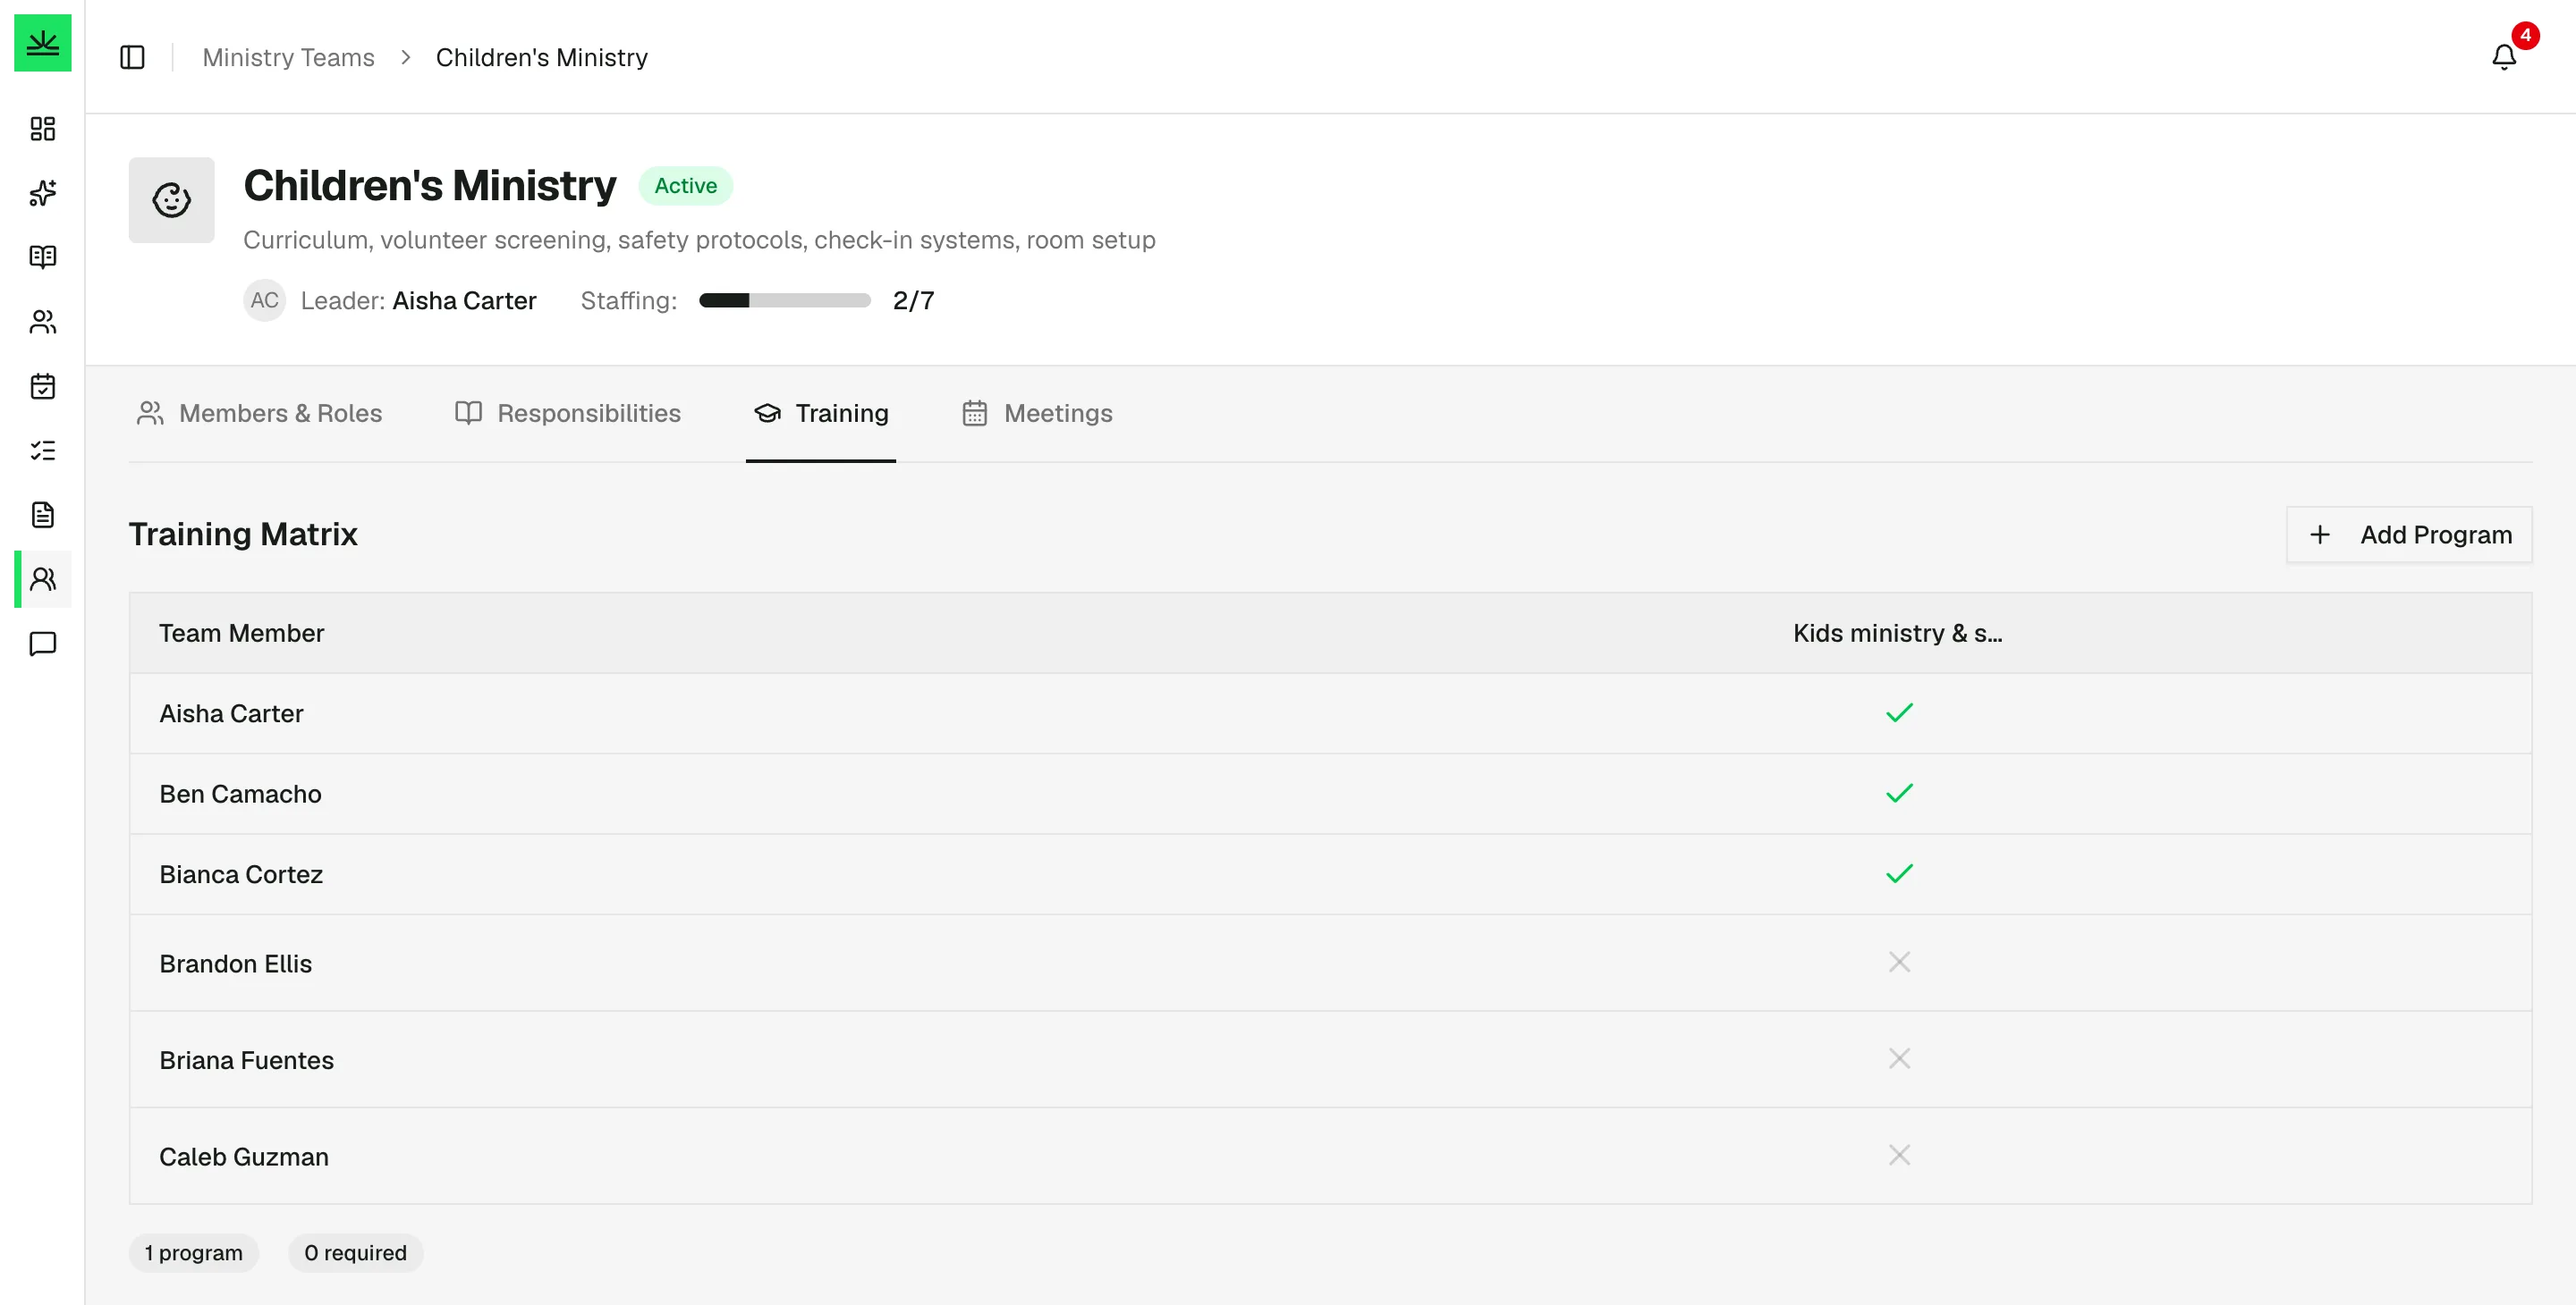
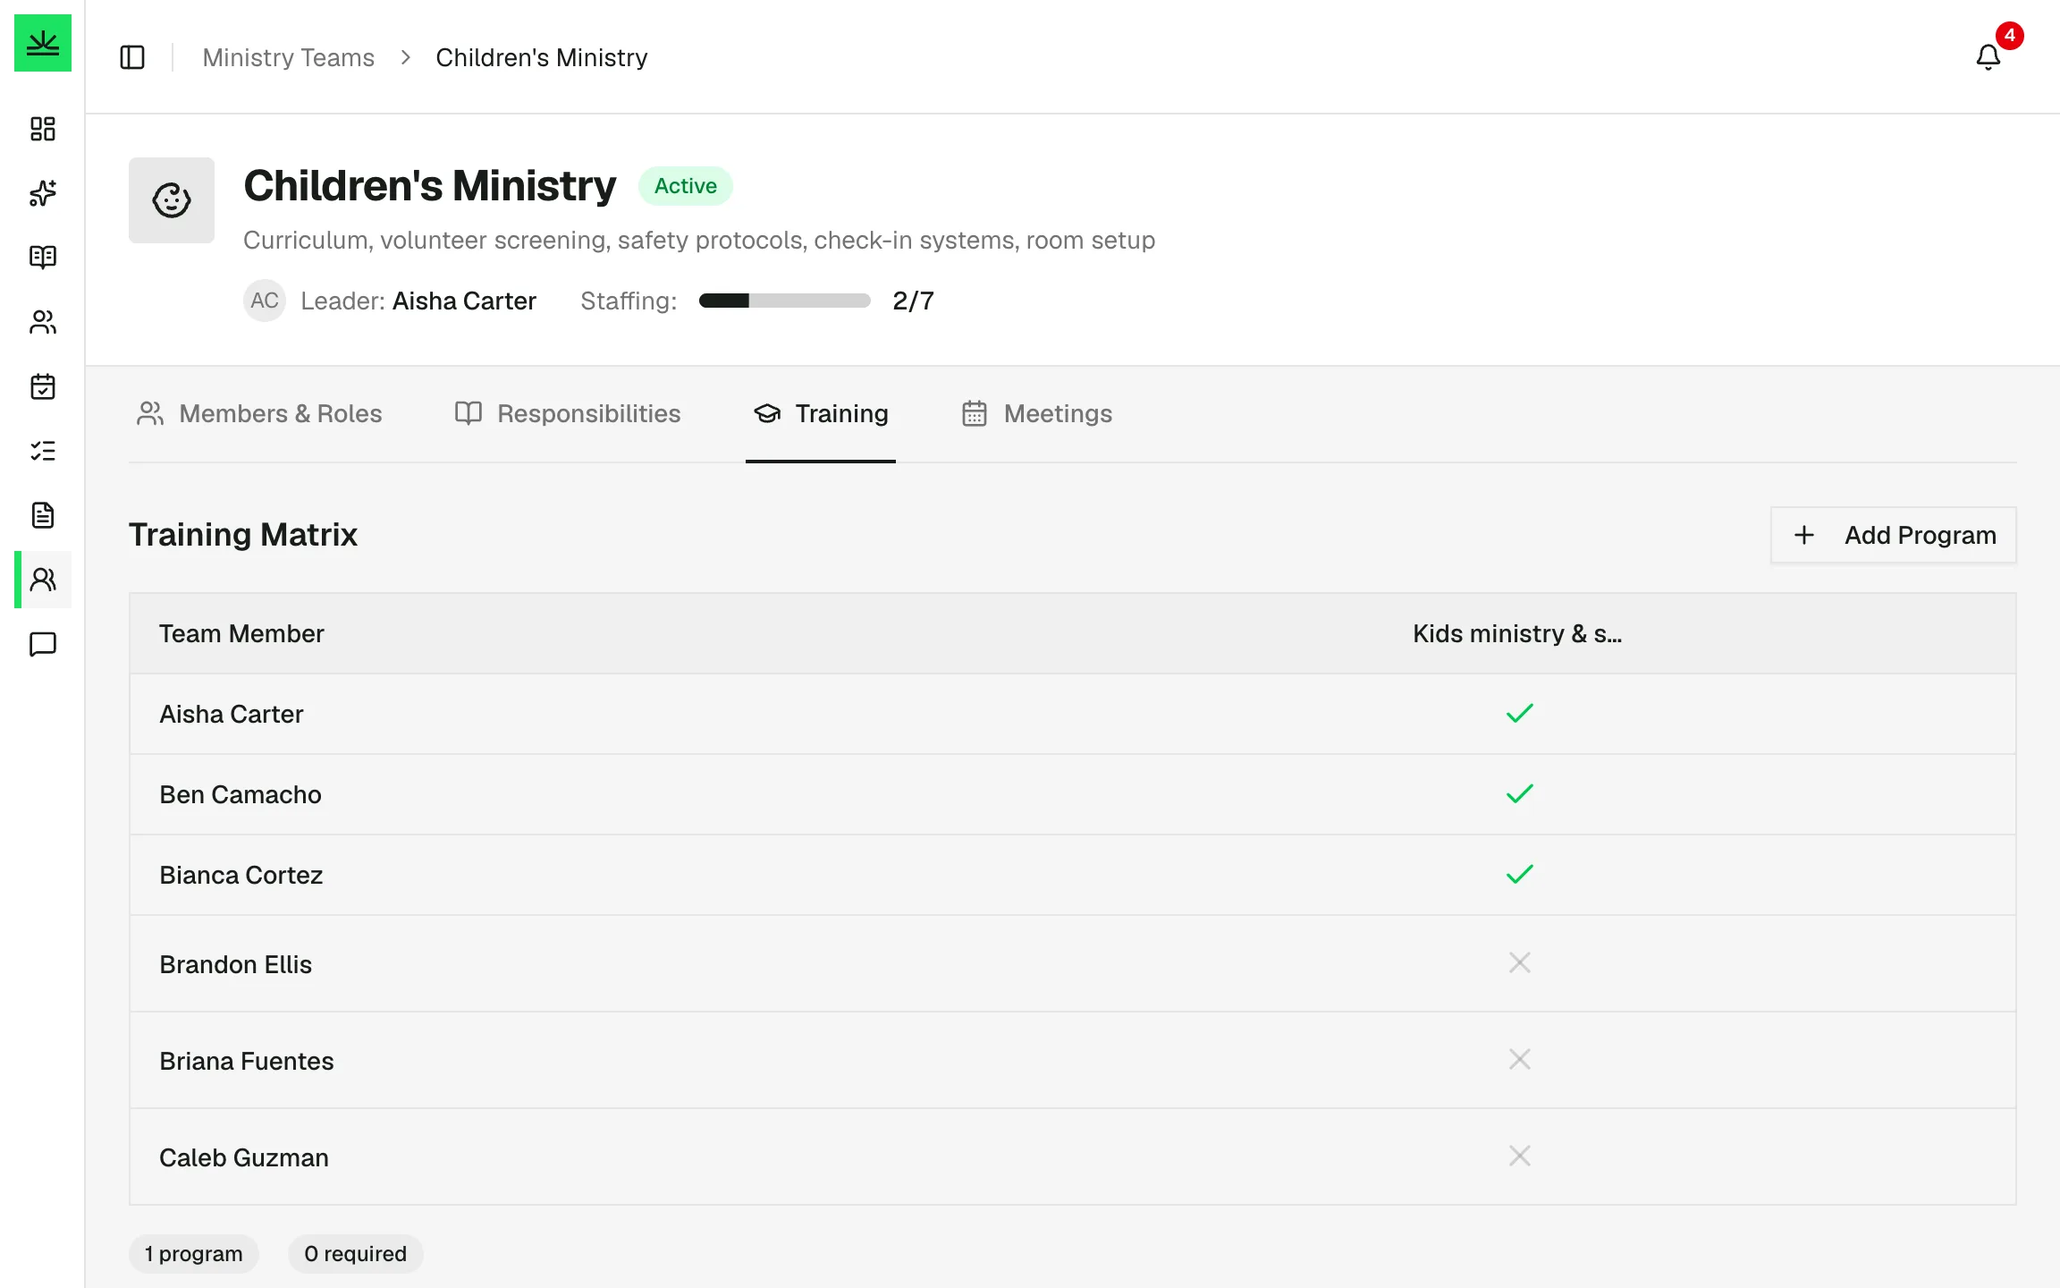
fix(marketing): round-7 — hero bleed back at full size, taller panes, comp fixes
Hero returns to full container width with the shot overlapping the
painting's bottom edge (the round-6 inset misread the ask). All panes get
taller (fswitch 780, pshot 720, epane 680) with bigger picture caps so
primaries stop shrinking. Guides pane primary is now cut at the pane's
leading edge (negative inset, square leading corners, no leading border).
Meetings tab shows the whole Meetings page; the training matrix recaptured
at 1152 to kill the empty program-column band; people/wiki/core-group
overlays repositioned per feedback.

diff --git a/src/app/(marketing)/marketing.css b/src/app/(marketing)/marketing.css
@@ -245,8 +245,7 @@ html:has(.marketing) {
       rgba(251, 248, 234, 0.1)
     ),
     url("/marketing/c1-field.webp") center / cover;
-  /* the painting wraps the shot on all sides (round 6 offset ruling) */
-  padding: clamp(48px, 6vw, 76px) clamp(20px, 5vw, 56px) clamp(40px, 5vw, 64px);
+  padding: clamp(48px, 6vw, 76px) clamp(20px, 5vw, 56px) 0;
 }
 .marketing .lp-hero-sub {
   font-family: var(--serif);
@@ -268,20 +267,28 @@ html:has(.marketing) {
   margin-top: 12px;
   color: var(--mute);
 }
-/* the shot runs wider than the copy column, inset within the painting —
-   the background stays visible above, beside, and below it */
+/* the shot runs wider than the copy column and goes a bit over the
+   painting's bottom edge (round-7 ruling: full size + bottom overlap) */
 .marketing .hero-shot {
   margin-top: 48px;
+  margin-bottom: -72px;
   position: relative;
-  width: min(1200px, 88%);
+  width: var(--vis);
   left: 50%;
   transform: translateX(-50%);
+}
+.marketing .lp-hero {
+  margin-bottom: 72px;
 }
 @media (max-width: 899px) {
   .marketing .hero-shot {
     width: 100%;
     left: auto;
     transform: none;
+    margin-bottom: -40px;
+  }
+  .marketing .lp-hero {
+    margin-bottom: 40px;
   }
 }
 /* ---------- product shots — the real app standing on the painting ---------- */
@@ -421,7 +428,7 @@ html:has(.marketing) {
   align-items: center;
   justify-content: center;
   /* one reserved height across all tabs — no layout shift on switch */
-  height: clamp(460px, 40vw, 660px);
+  height: clamp(520px, 46vw, 780px);
   padding: clamp(28px, 3.5vw, 64px);
   /* layered comps cut off at the pane edge (round 5) */
   overflow: hidden;
@@ -435,12 +442,22 @@ html:has(.marketing) {
 .marketing .fswitch-shot picture {
   display: flex;
   align-items: center;
-  max-width: min(1280px, 86%);
+  max-width: min(1320px, 88%);
   height: 100%;
 }
-/* round 6: some panes run the primary flush to the pane's leading edge */
+/* round 6/7: flush panes cut the primary at the pane's leading edge —
+   square leading corners, no leading border, content clipped */
 .marketing .fswitch-shot.flush-start {
   padding-inline-start: 0;
+}
+.marketing .fswitch-shot.flush-start picture {
+  margin-inline-start: -6%;
+  max-width: min(1320px, 94%);
+}
+.marketing .fswitch-shot.flush-start .shot-img:not(.shot-overlay) {
+  border-inline-start-width: 0;
+  border-start-start-radius: 0;
+  border-end-start-radius: 0;
 }
 .marketing .fswitch-shot picture .shot-img {
   width: auto;
@@ -613,12 +630,12 @@ html:has(.marketing) {
 }
 /* desktop panels reserve one height; the crop contains inside it */
 .marketing .ppanel .pshot {
-  height: clamp(440px, 36vw, 620px);
+  height: clamp(500px, 42vw, 720px);
 }
 .marketing .ppanel .pshot picture {
   display: flex;
   align-items: center;
-  max-width: min(1180px, 76%);
+  max-width: min(1280px, 84%);
   height: 100%;
 }
 .marketing .ppanel .pshot picture .shot-img {
@@ -741,14 +758,14 @@ html:has(.marketing) {
   display: flex;
   align-items: center;
   justify-content: center;
-  height: clamp(400px, 34vw, 600px);
-  padding: clamp(20px, 3vw, 52px);
+  height: clamp(460px, 38vw, 680px);
+  padding: clamp(20px, 3vw, 44px);
 }
 .marketing .epane picture {
   display: flex;
   align-items: center;
   justify-content: center;
-  max-width: min(860px, 86%);
+  max-width: min(920px, 94%);
   height: 100%;
 }
 .marketing .epane picture .shot-img {

diff --git a/src/app/(marketing)/_components/feature-switcher.tsx b/src/app/(marketing)/_components/feature-switcher.tsx
@@ -48,7 +48,7 @@ const FEATURES: readonly Feature[] = [
         width: 545,
         height: 302,
         alt: "Core Group stat card: 61 — core group, launch team and leaders.",
-        style: { left: "64%", top: "28%", width: "min(26%, 400px)" },
+        style: { left: "64%", top: "45%", width: "min(26%, 400px)" },
       },
     ],
   },
@@ -59,16 +59,16 @@ const FEATURES: readonly Feature[] = [
       "Vision meetings, orientations, team nights — planned, run, and followed up, with attendance feeding your momentum picture.",
     art: "/marketing/meetings.webp",
     desktop: {
-      src: "/marketing/shots/fs-meetings.webp",
-      width: 1517,
-      height: 515,
+      src: "/marketing/shots/r7-meetings.webp",
+      width: 2368,
+      height: 1760,
     },
     mobile: {
       src: "/marketing/shots/fs-meetings-m.webp",
       width: 760,
       height: 515,
     },
-    alt: "Upcoming meetings: Worship team night and Orientation #2 at the Riveras' home.",
+    alt: "The Meetings page — vision meetings, orientations, and team nights with status, location, headcount, and countdown.",
     anchor: "end",
   },
   {
@@ -146,7 +146,7 @@ const FEATURES: readonly Feature[] = [
         width: 1538,
         height: 1266,
         alt: "My Wiki Progress — overall reading progress and per-phase completion.",
-        style: { right: "5%", top: "30%", width: "min(30%, 450px)" },
+        style: { right: "9%", top: "20%", width: "min(30%, 450px)" },
       },
     ],
   },

diff --git a/src/app/(marketing)/_components/phase-tabs.tsx b/src/app/(marketing)/_components/phase-tabs.tsx
@@ -81,7 +81,7 @@ const PHASES: readonly Phase[] = [
       width: 760,
       height: 515,
       alt: "Vision Meeting #5 — in 14 days, ~32 estimated.",
-      style: { right: "6%", bottom: "8%", width: "min(26%, 380px)" },
+      style: { right: "13%", bottom: "20%", width: "min(26%, 380px)" },
     },
   },
   {
@@ -121,8 +121,8 @@ const PHASES: readonly Phase[] = [
     ],
     desktop: {
       src: "/marketing/shots/r6-team-training.webp",
-      width: 2880,
-      height: 1460,
+      width: 2304,
+      height: 1440,
     },
     mobile: {
       src: "/marketing/shots/pt-teams-m.webp",
